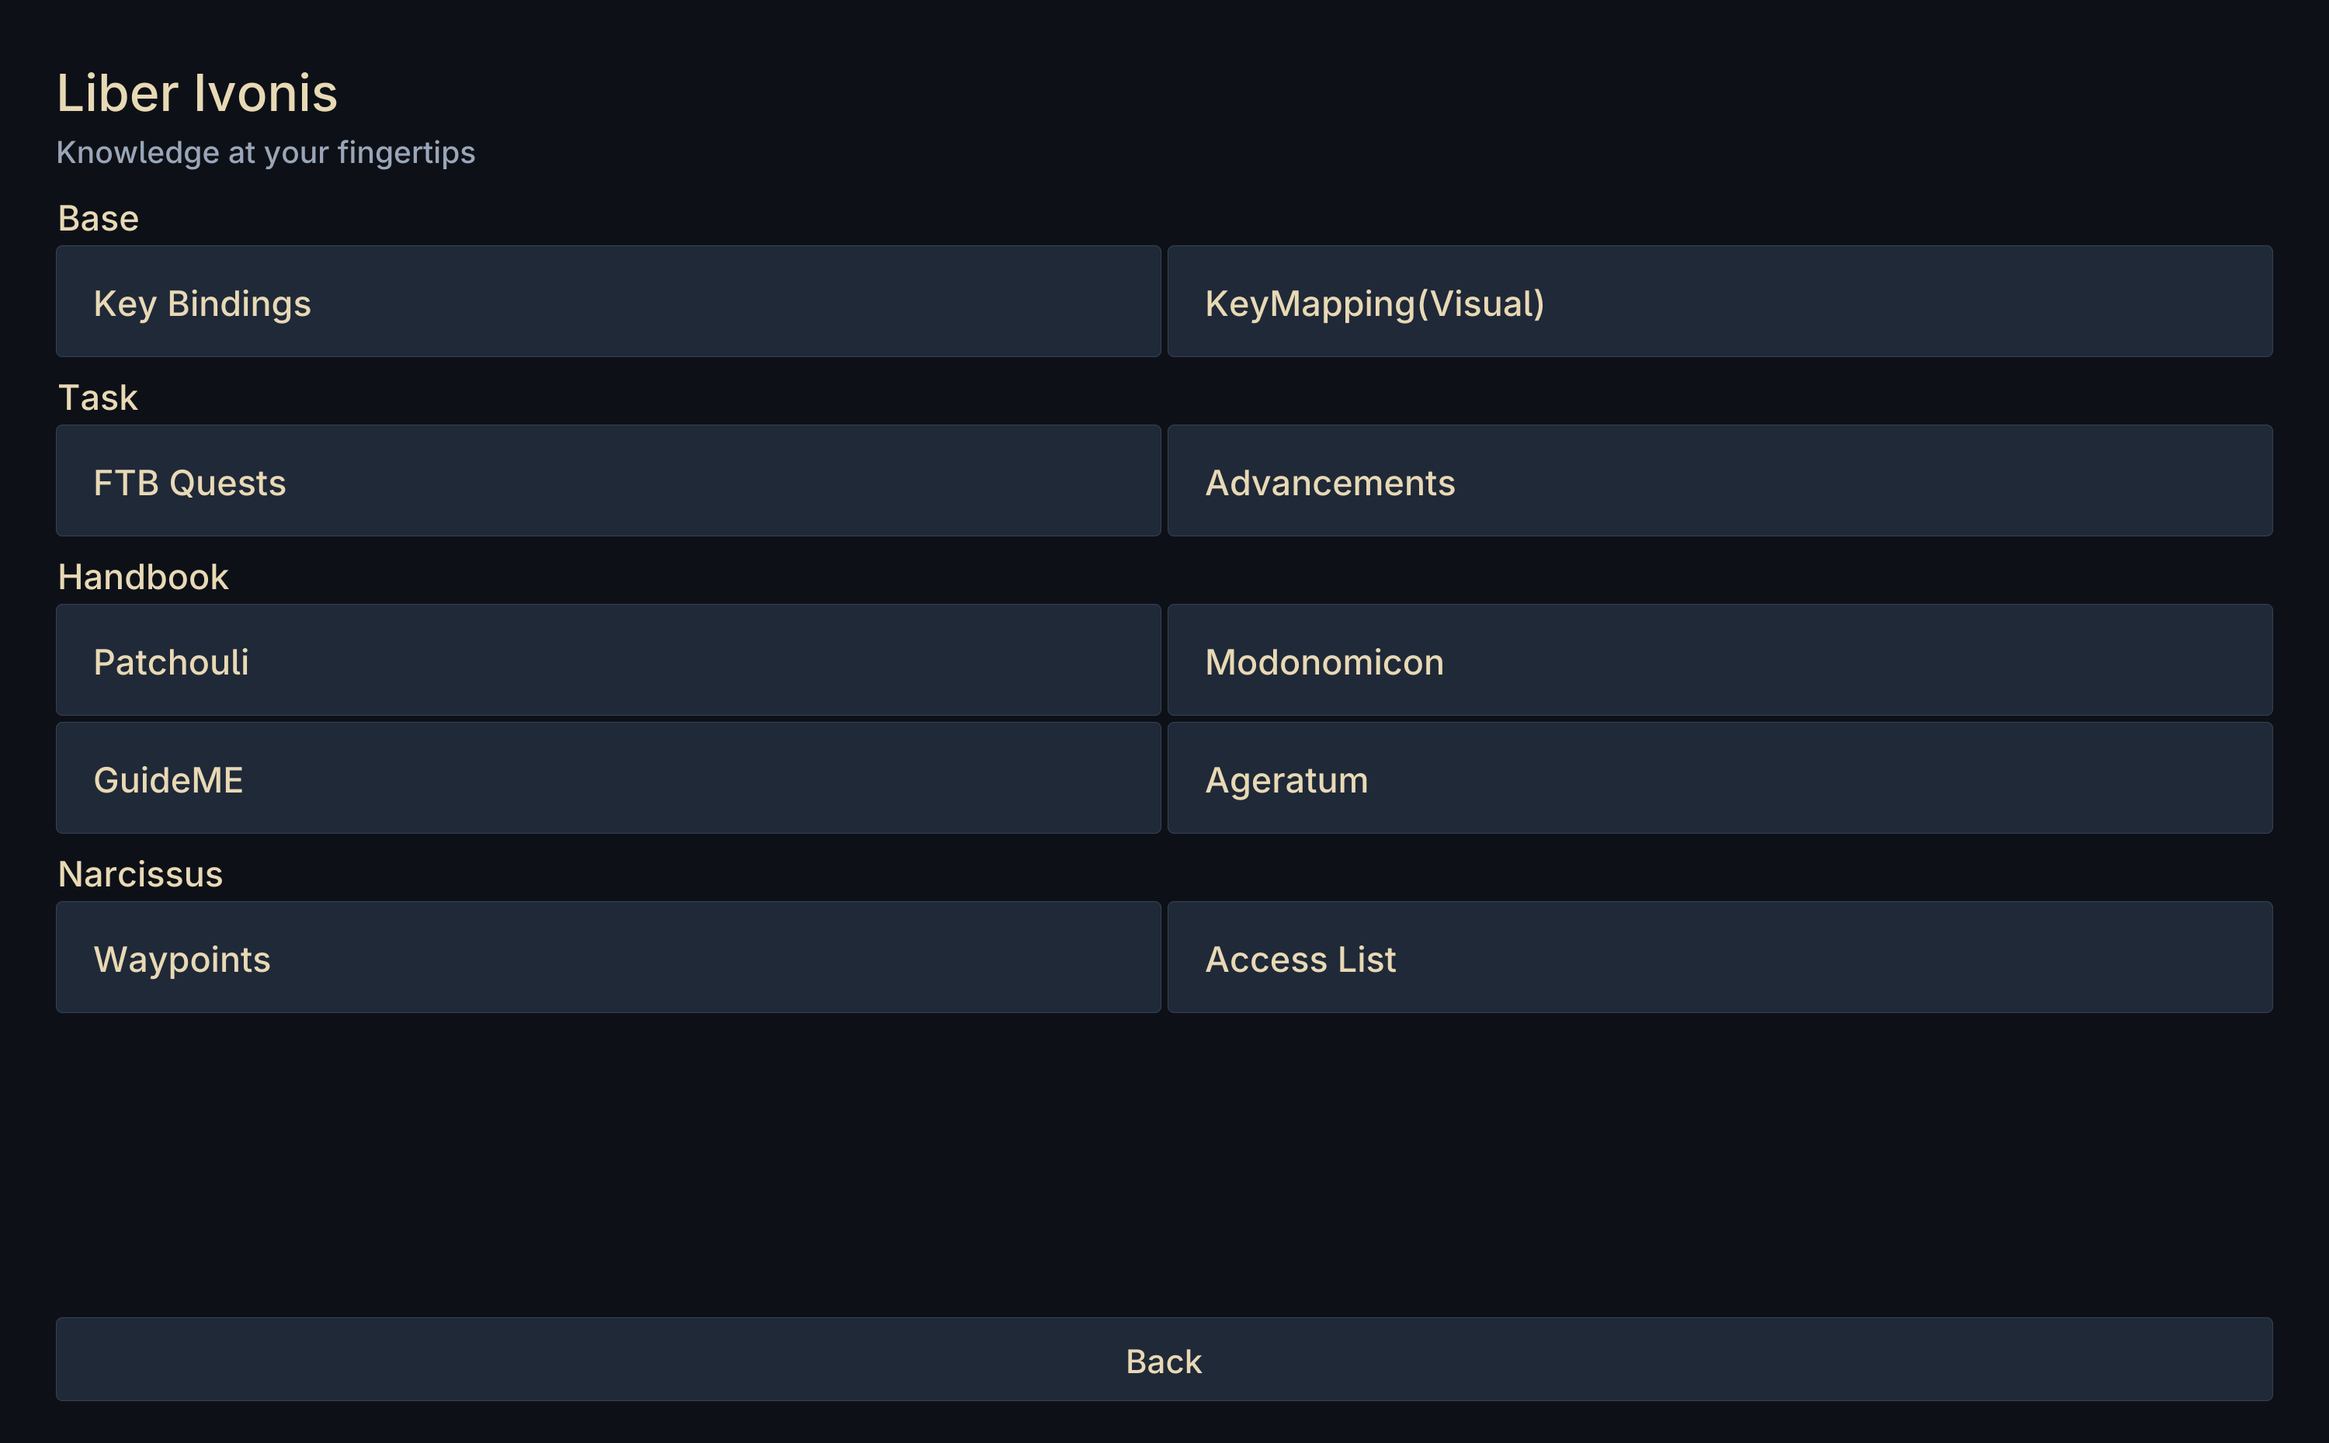
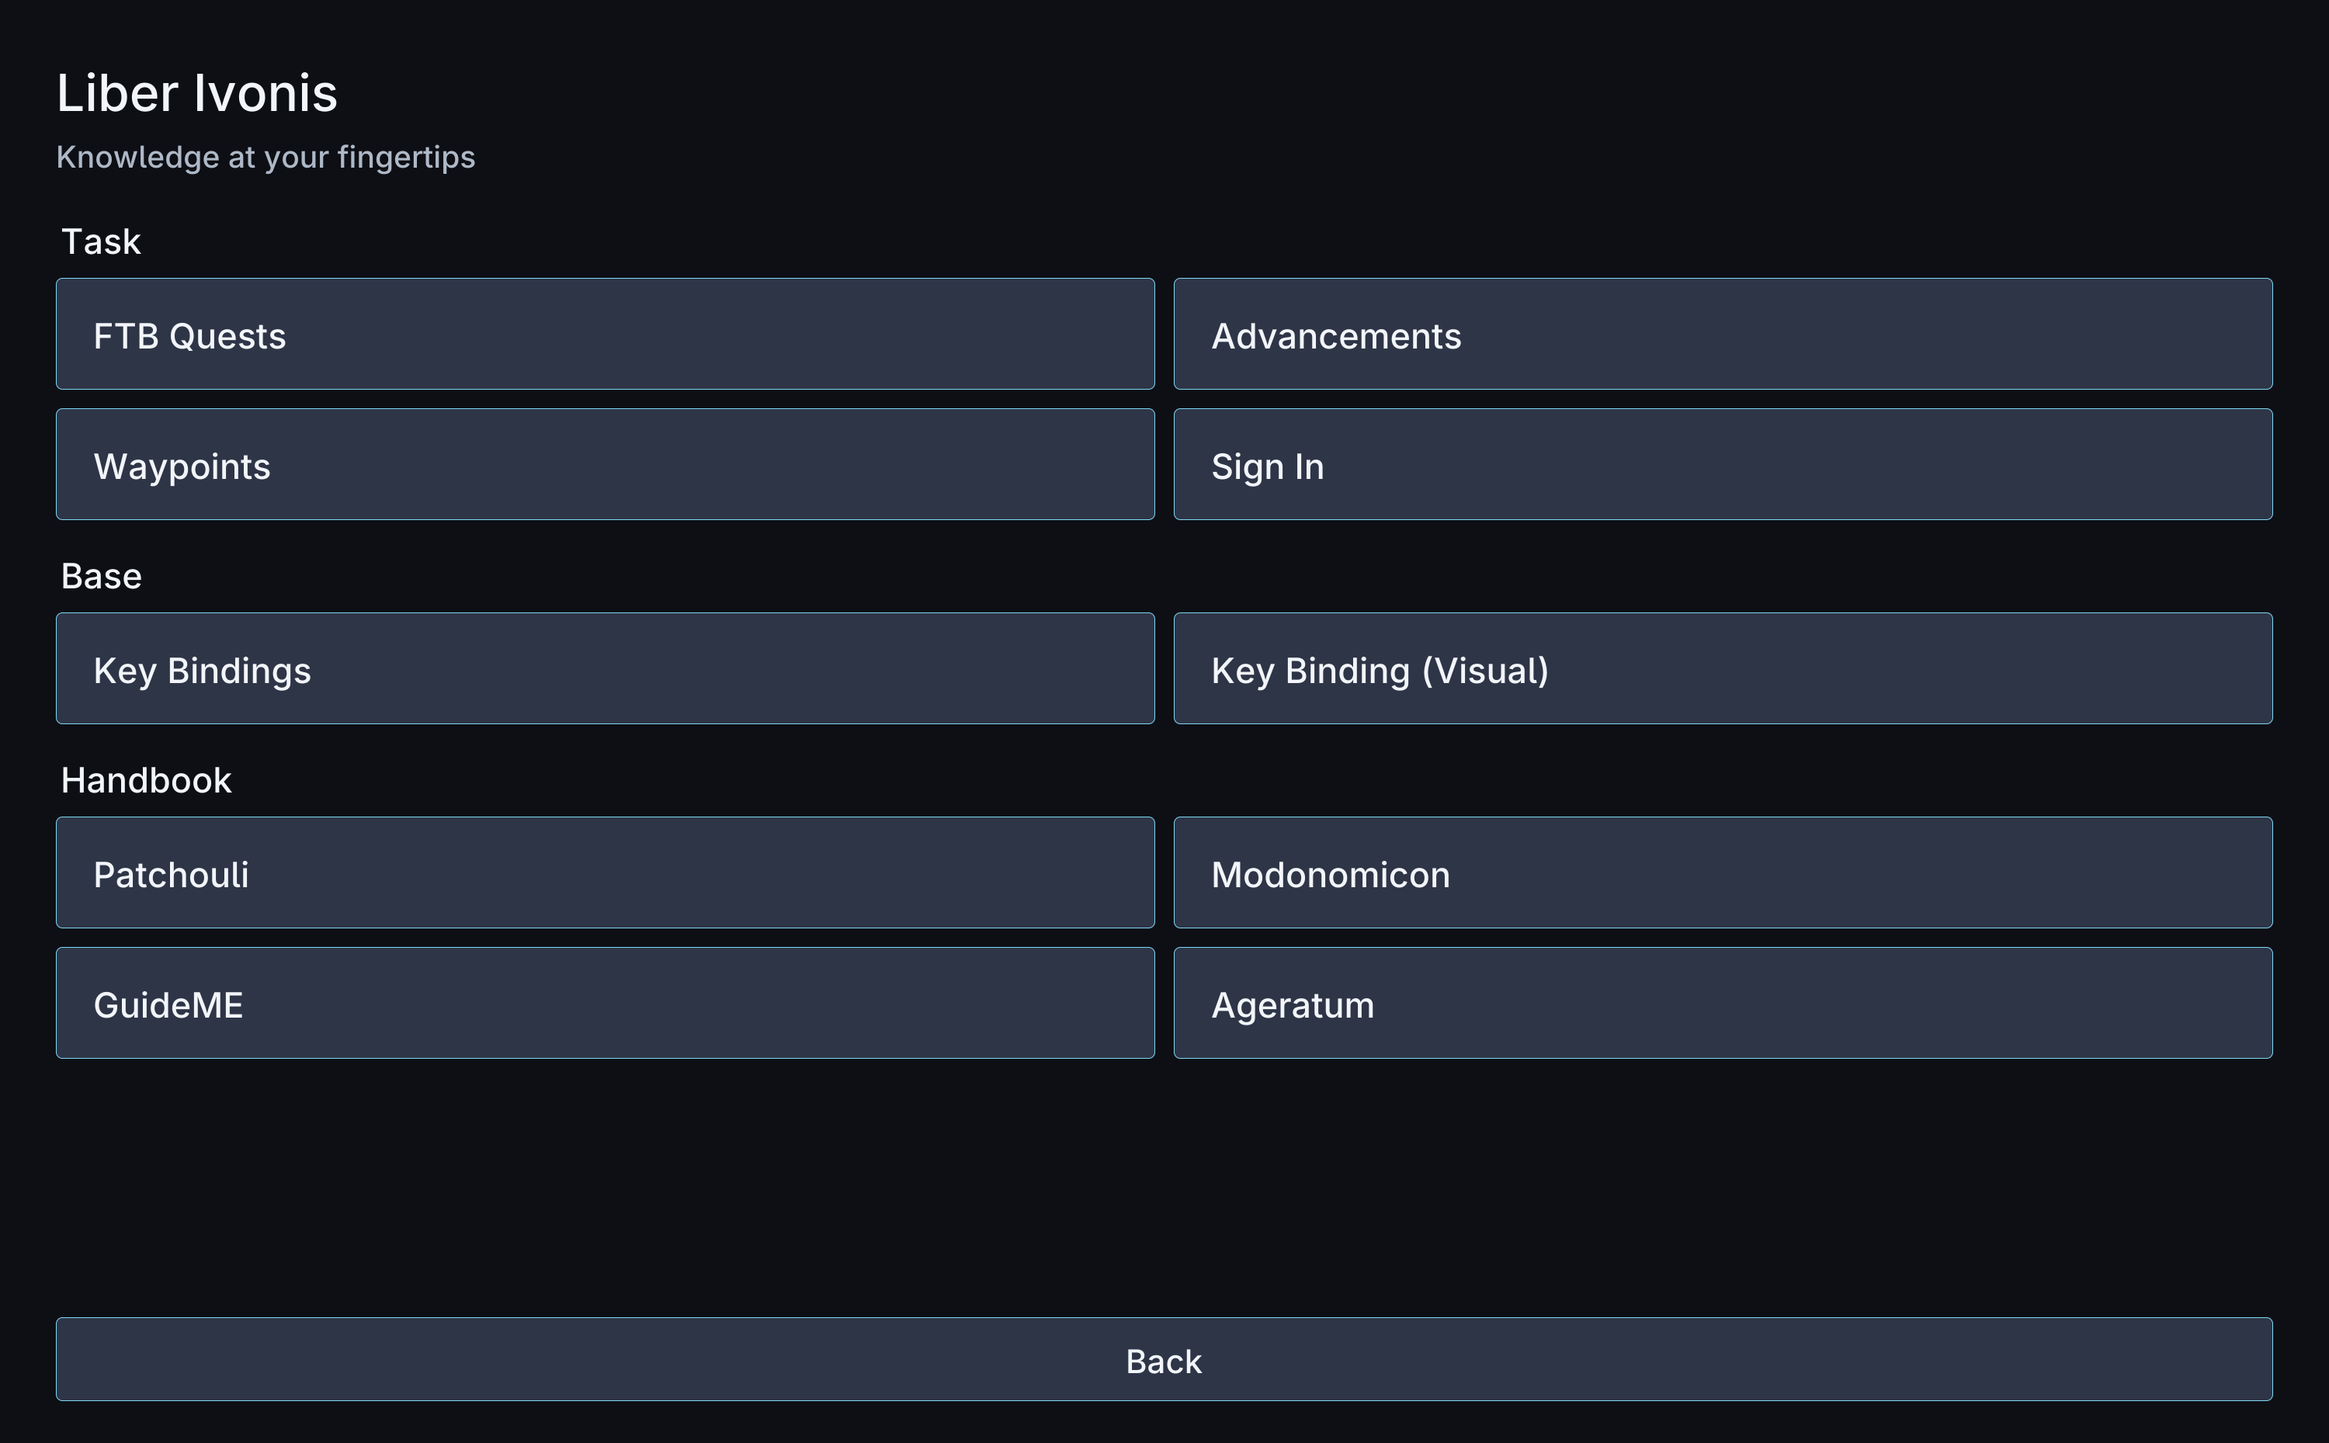
fix: boolean param

Changed region(s): [[0.0, 0.0624, 0.992, 0.7488], [0.465, 0.936, 0.527, 0.9672]]

diff --git a/src/test/java/com/liberivonis/config/layout/HubLayoutLoaderTest.java b/src/test/java/com/liberivonis/config/layout/HubLayoutLoaderTest.java
@@ -4,6 +4,7 @@ import com.liberivonis.config.layout.HubLayout.ContainerNode;
 import com.liberivonis.config.layout.HubLayout.ContainerType;
 import com.liberivonis.config.layout.HubLayout.EntryNode;
 import com.liberivonis.config.layout.HubLayout.Orientation;
+import com.liberivonis.config.layout.HubLayout.TextNode;
 import org.junit.jupiter.api.Test;
 
 import java.io.IOException;
@@ -21,17 +22,64 @@ import static org.junit.jupiter.api.Assertions.assertTrue;
 class HubLayoutLoaderTest {
     @Test
     void bundledLayoutParses() throws Exception {
-        try (InputStream input = getClass().getResourceAsStream("/liber_ivonis/defaults/hub.json")) {
+        HubLayout layout = bundledLayout();
+        ContainerNode root = assertInstanceOf(ContainerNode.class, layout.root());
+        assertEquals(ContainerType.LINEAR, root.type());
+        assertEquals(Orientation.VERTICAL, root.orientation());
+        assertEquals(4, root.children().size());
+        assertEquals(HubTheme.defaults(), layout.theme());
+    }
+
+    @Test
+    void bundledLayoutKeepsMigratedCategoriesAndScreens() throws Exception {
+        ContainerNode root = assertInstanceOf(ContainerNode.class, bundledLayout().root());
+        ContainerNode scroll = assertInstanceOf(ContainerNode.class, root.children().get(2));
+        assertEquals(4, scroll.children().size());
+
+        String[] categoryKeys = {
+                "screen.liber_ivonis.category.base",
+                "screen.liber_ivonis.category.task",
+                "screen.liber_ivonis.category.handbook",
+                "screen.liber_ivonis.category.narcissus"
+        };
+        for (int index = 0; index < categoryKeys.length; index++) {
+            ContainerNode section = assertInstanceOf(ContainerNode.class, scroll.children().get(index));
+            TextNode heading = assertInstanceOf(TextNode.class, section.children().getFirst());
+            assertEquals(categoryKeys[index], heading.text());
+            assertInstanceOf(ContainerNode.class, section.children().get(1));
+        }
+
+        EntryNode keymap = entryAt(scroll, 0, 1);
+        assertEquals("com.github.einjerjar.mc.keymap.client.gui.screen.KeymapScreen", keymap.target());
+        assertEquals("<init>", keymap.method());
+        assertEquals("entry.liber_ivonis.keymap", keymap.title());
+        assertEquals("entry.liber_ivonis.keymap.description", keymap.description());
+
+        EntryNode waypoints = entryAt(scroll, 3, 0);
+        assertEquals("xin.vanilla.narcissus.integration.ScreenHelper", waypoints.target());
+        assertEquals("openScreen", waypoints.method());
+        assertEquals("entry.liber_ivonis.narcissus.waypoints", waypoints.title());
+        assertEquals("entry.liber_ivonis.narcissus.waypoints.description", waypoints.description());
+
+        EntryNode accessList = entryAt(scroll, 3, 1);
+        assertEquals("openAccessListScreen", accessList.method());
+        assertEquals("entry.liber_ivonis.narcissus.access_list", accessList.title());
+        assertEquals("entry.liber_ivonis.narcissus.access_list.description", accessList.description());
+    }
+
+    private static HubLayout bundledLayout() throws Exception {
+        try (InputStream input = HubLayoutLoaderTest.class.getResourceAsStream("/liber_ivonis/defaults/hub.json")) {
             if (input == null)
                 throw new IOException("Bundled Hub layout is missing");
-            HubLayout layout = HubLayoutLoader.parse(
+            return HubLayoutLoader.parse(
                     new InputStreamReader(input, StandardCharsets.UTF_8), "bundled default");
-            ContainerNode root = assertInstanceOf(ContainerNode.class, layout.root());
-            assertEquals(ContainerType.LINEAR, root.type());
-            assertEquals(Orientation.VERTICAL, root.orientation());
-            assertEquals(4, root.children().size());
-            assertEquals(HubTheme.defaults(), layout.theme());
         }
+    }
+
+    private static EntryNode entryAt(ContainerNode scroll, int sectionIndex, int entryIndex) {
+        ContainerNode section = assertInstanceOf(ContainerNode.class, scroll.children().get(sectionIndex));
+        ContainerNode grid = assertInstanceOf(ContainerNode.class, section.children().get(1));
+        return assertInstanceOf(EntryNode.class, grid.children().get(entryIndex));
     }
 
     @Test

diff --git a/src/main/java/com/liberivonis/integration/HubEntries.java b/src/main/java/com/liberivonis/integration/HubEntries.java
@@ -209,7 +209,7 @@ public final class HubEntries {
                     if (!method.getName().equals(methodName)
                             || !java.lang.reflect.Modifier.isStatic(method.getModifiers()))
                         continue;
-                    Object[] args = resolveArguments(method.getParameterTypes(), commonArgs);
+                    Object[] args = ScreenArgumentResolver.resolve(method.getParameterTypes(), commonArgs);
                     if (args == null)
                         continue;
                     // LOGGER.info("Invoking {}.{} with {} parameter(s)", className, methodName,
@@ -225,7 +225,7 @@ public final class HubEntries {
             // LOGGER.info("Inspecting {} constructor(s) for {}", constructors.length,
             // className);
             for (java.lang.reflect.Constructor<?> constructor : constructors) {
-                Object[] args = resolveArguments(constructor.getParameterTypes(), commonArgs);
+                Object[] args = ScreenArgumentResolver.resolve(constructor.getParameterTypes(), commonArgs);
                 if (args == null) {
                     LOGGER.warn("Skipping unsupported constructor {}", constructor);
                     continue;
@@ -246,28 +246,6 @@ public final class HubEntries {
             LOGGER.error("Failed to create custom screen {} using {}", className, preferredMethod, e);
         }
         return null;
-    }
-
-    private static Object[] resolveArguments(Class<?>[] parameterTypes, Object[] commonArgs) {
-        Object[] result = new Object[parameterTypes.length];
-        boolean[] used = new boolean[commonArgs.length];
-        for (int i = 0; i < parameterTypes.length; i++) {
-            boolean found = false;
-            for (int j = 0; j < commonArgs.length; j++) {
-                Object value = commonArgs[j];
-                if (used[j] || (value != null && !parameterTypes[i].isInstance(value)))
-                    continue;
-                if (value == null && parameterTypes[i].isPrimitive())
-                    continue;
-                result[i] = value;
-                used[j] = true;
-                found = true;
-                break;
-            }
-            if (!found)
-                return null;
-        }
-        return result;
     }
 
 }

diff --git a/src/main/java/com/liberivonis/integration/ScreenArgumentResolver.java b/src/main/java/com/liberivonis/integration/ScreenArgumentResolver.java
@@ -1,0 +1,32 @@
+package com.liberivonis.integration;
+
+final class ScreenArgumentResolver {
+    private ScreenArgumentResolver() {
+    }
+
+    static Object[] resolve(Class<?>[] parameterTypes, Object[] commonArgs) {
+        Object[] result = new Object[parameterTypes.length];
+        boolean[] used = new boolean[commonArgs.length];
+        for (int i = 0; i < parameterTypes.length; i++) {
+            if (parameterTypes[i] == boolean.class || parameterTypes[i] == Boolean.class) {
+                result[i] = false;
+                continue;
+            }
+            boolean found = false;
+            for (int j = 0; j < commonArgs.length; j++) {
+                Object value = commonArgs[j];
+                if (used[j] || (value != null && !parameterTypes[i].isInstance(value)))
+                    continue;
+                if (value == null && parameterTypes[i].isPrimitive())
+                    continue;
+                result[i] = value;
+                used[j] = true;
+                found = true;
+                break;
+            }
+            if (!found)
+                return null;
+        }
+        return result;
+    }
+}

diff --git a/src/test/java/com/liberivonis/integration/HubEntriesArgumentInjectionTest.java b/src/test/java/com/liberivonis/integration/HubEntriesArgumentInjectionTest.java
@@ -1,0 +1,33 @@
+package com.liberivonis.integration;
+
+import org.junit.jupiter.api.Test;
+
+import static org.junit.jupiter.api.Assertions.assertArrayEquals;
+
+class HubEntriesArgumentInjectionTest {
+    @Test
+    void injectsFalseForPrimitiveBoolean() {
+        Object[] arguments = ScreenArgumentResolver.resolve(
+                new Class<?>[] { boolean.class }, new Object[] { null });
+
+        assertArrayEquals(new Object[] { false }, arguments);
+    }
+
+    @Test
+    void injectsFalseForBoxedBoolean() {
+        Object[] arguments = ScreenArgumentResolver.resolve(
+                new Class<?>[] { Boolean.class }, new Object[] { null });
+
+        assertArrayEquals(new Object[] { false }, arguments);
+    }
+
+    @Test
+    void injectsFalseAlongsideClientArguments() {
+        Object[] commonArgs = { "client", null };
+
+        Object[] arguments = ScreenArgumentResolver.resolve(
+                new Class<?>[] { String.class, boolean.class }, commonArgs);
+
+        assertArrayEquals(new Object[] { "client", false }, arguments);
+    }
+}

diff --git a/src/main/java/com/liberivonis/client/ClientEventHandlers.java b/src/main/java/com/liberivonis/client/ClientEventHandlers.java
@@ -18,7 +18,7 @@ import net.neoforged.fml.ModList;
 @EventBusSubscriber(modid = LiberIvonis.MOD_ID, value = Dist.CLIENT)
 public final class ClientEventHandlers {
     public static final KeyMapping OPEN_HUB = new KeyMapping("key.liber_ivonis.open_hub", InputConstants.Type.KEYSYM,
-            GLFW.GLFW_KEY_UNKNOWN, "key.categories.liber_ivonis");
+            GLFW.GLFW_KEY_K, "key.categories.liber_ivonis");
 
     private ClientEventHandlers() {
     }

diff --git a/README.md b/README.md
@@ -39,10 +39,9 @@ config/
         └── zh_tw.json
 ```
 
-`hub.json` defines the Hub with nested ModernUI-style containers and widgets.
-`column`, `row`, `scroll`, `grid`, `text`, `entry`, `button`, and `spacer`
-nodes can be freely nested. Entries use explicit fields instead of a packed
-string list:
+`hub.json` defines the Hub with nested ModernUI-style containers and widgets. `column`, `row`, `scroll`, `grid`, `text`, `entry`, `button`, and `spacer` nodes can be freely nested. Entries use explicit fields instead of a packed string list. The generated `config/liber_ivonis/README.md` documents every supported node, dimension, colour and entry field.
+
+Layout and language JSON files are re-read whenever the Hub opens. If `hub.json` is invalid, the bundled layout is used and the error is logged. 
 
 ```json
 {
@@ -88,14 +87,9 @@ string list:
 }
 ```
 
-Layout and language JSON files are re-read whenever the Hub opens. If
-`hub.json` is invalid, the bundled layout is used and the error is logged.
-The generated `config/liber_ivonis/README.md` documents every supported node,
-dimension, colour and entry field.
-The in-game ModernUI settings page shows layout validation status and theme
-preview, and provides buttons to open the config folder, reload the file, or
-preview the resulting Hub. Preview mode keeps world-dependent entries visible
-but disabled when no player/world is loaded.
+![config](./README/config.png)
+
+The in-game ModernUI settings page shows layout validation status and theme preview, and provides buttons to open the config folder, reload the file, or preview the resulting Hub. Preview mode keeps world-dependent entries visible but disabled when no player/world is loaded.
 
 Configured translation keys are resolved in this order:
 
@@ -104,17 +98,9 @@ Configured translation keys are resolved in this order:
 3. Minecraft's loaded language resources.
 4. The node's `fallback`.
 
-ModernUI 3.13 does not expose a public XML layout inflater. Liber Ivonis
-therefore uses a JSON description that is translated into native ModernUI
-views rather than injecting a separate rendering implementation.
-
-The Hub layout and its seven theme colours live entirely in `hub.json`. The
-only remaining TOML file is the server-side gameplay setting:
+The only remaining TOML file is the server-side gameplay setting:
 
 ```toml
 [gameplay]
 giveBookOnStart = true
 ```
-
-Older `liber_ivonis-client.toml` files are no longer read or generated. Custom
-entries from that file must be moved into `hub.json`.

diff --git a/src/main/resources/liber_ivonis/defaults/HUB_LAYOUT.md b/src/main/resources/liber_ivonis/defaults/HUB_LAYOUT.md
@@ -5,7 +5,7 @@ the Hub opens, so layout and translation changes do not need a game restart.
 If the JSON is invalid, the bundled default is shown and the parse error is
 written to the game log.
 
-The ModernUI settings page shows the active file paths, layout validation
+The In-game settings page shows the active file paths, layout validation
 status, and theme palette. It can open the config/language folders, reload the
 files, and open a live Hub preview without leaving the game. In preview mode,
 entries that need a loaded player/world remain visible but are disabled.
@@ -21,9 +21,6 @@ The lookup order for text in this layout is:
 
 This means a translation key can be edited in the local `lang` directory
 without replacing the mod JAR or creating a resource pack.
-
-The old `liber_ivonis-client.toml` is no longer read. Move custom entries and
-colours from that file into this JSON document.
 
 ## Document
 
@@ -111,8 +108,8 @@ An entry must contain exactly one target:
   `inventory`, `advancement`, or `controls`.
 - `item`: an item registry id. The item name is used when `title` is omitted.
 - `screen`: a screen factory class. The method is static and should accept
-  supported client objects or no parameters. The class name is used when
-  `title` is omitted.
+  supported client objects, `boolean` parameters (injected as `false`), or no
+  parameters. The class name is used when `title` is omitted.
 
 Optional entry properties:
 
